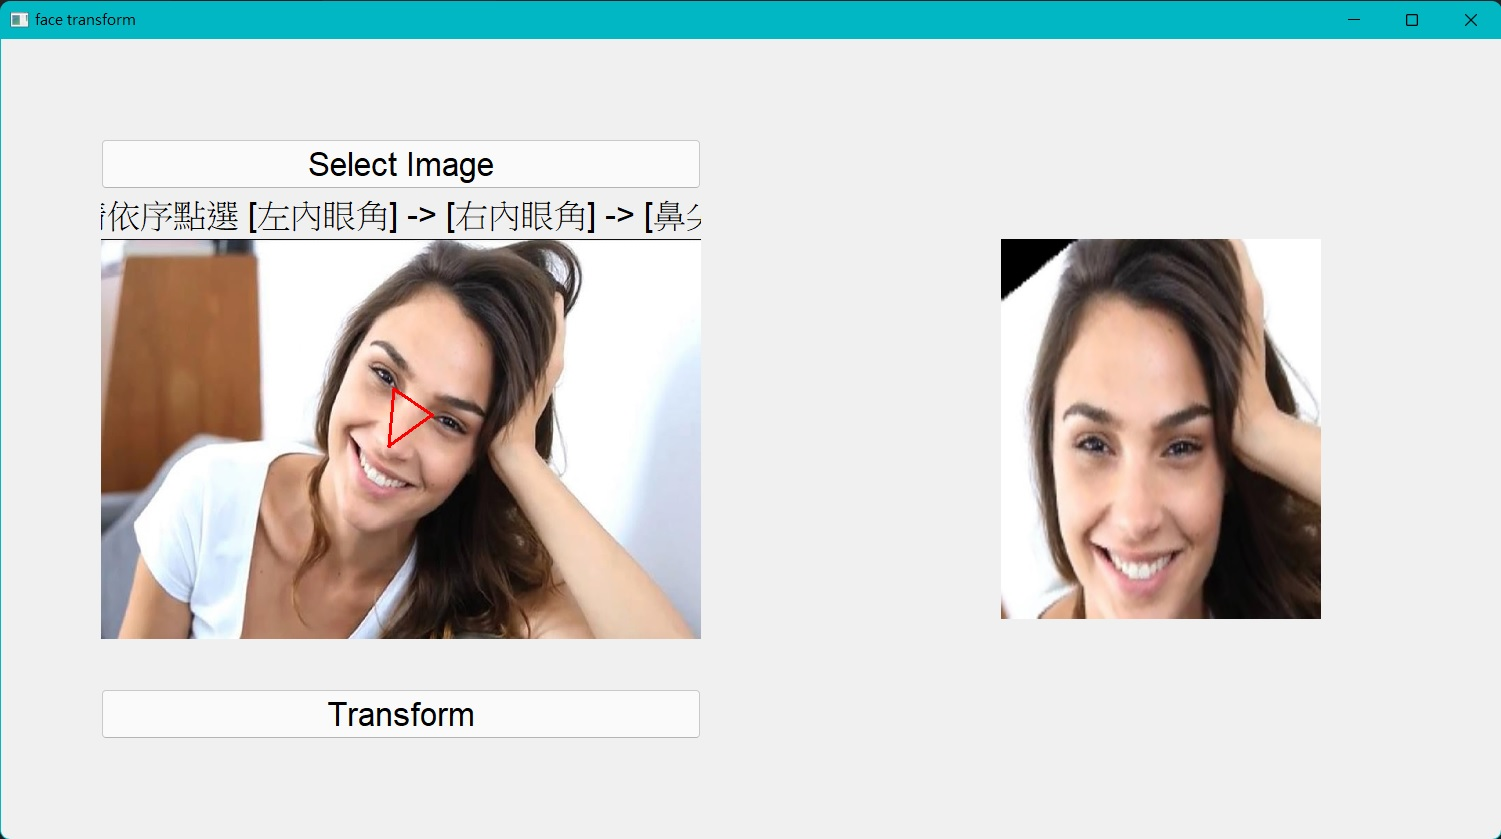
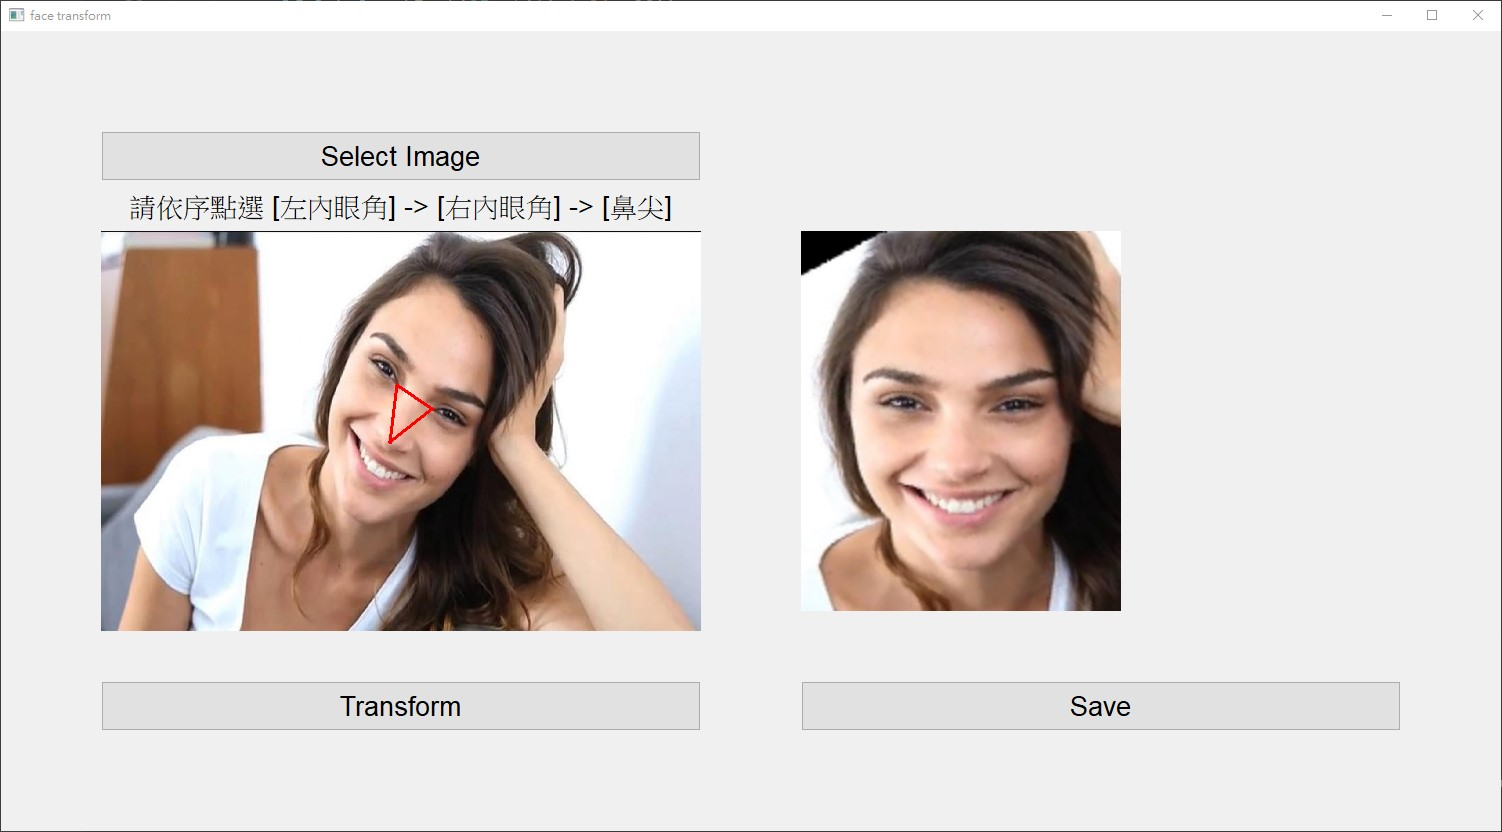
20211111

diff --git a/main.py b/main.py
@@ -70,7 +70,9 @@ class MainWindow(QWidget):
 
         # param
         self.srcTri = [] # [左內眼角], [右內眼角], [鼻尖]
-        self.dstTri = [[65, 90], [95, 90], [80, 120]]                
+        # self.dstTri = [[130, 180], [190, 180], [160, 240]]   
+        self.dstTri = [[65, 90], [95, 90], [80, 120]]       
+        self.processedImage = None          
         
         # Text
         self.label = QLabel(self)        
@@ -93,13 +95,20 @@ class MainWindow(QWidget):
         self.btn_startTransform.setEnabled(False)
         self.btn_startTransform.clicked.connect(self.run_AffineTransform)
 
+        self.btn_saveImage = QPushButton(self)
+        self.btn_saveImage.setText('Save')
+        self.btn_saveImage.setFont(QFont('Arial', 20))
+        self.btn_saveImage.setGeometry(800, 650, 600, 50)
+        self.btn_saveImage.setEnabled(False)
+        self.btn_saveImage.clicked.connect(self.save_image)
+
         # Display
         self.displayLabel = displayLabel(self)    
         self.displayLabel.customInit()       
         self.displayLabel.setGeometry(100, 200, 600, 400)
 
         self.disployLabel_processed = QLabel(self)
-        self.disployLabel_processed.setGeometry(1000, 200, 320, 380)
+        self.disployLabel_processed.setGeometry(800, 200, 320, 380)
     
     def open_image(self):
         self.fileName = QFileDialog.getOpenFileName(self, \
@@ -124,15 +133,24 @@ class MainWindow(QWidget):
 
         wrap_mat = cv2.getAffineTransform(src_tri, dst_tri)
 
-        dst = apply_AffineTransform(srcImg, wrap_mat, (160, 190))
+        dst = apply_AffineTransform(srcImg, wrap_mat, (190, 160))
 
         dst = cv2.resize(dst, (320, 380))
+        self.processedImage = dst
+
         dst = cv2.cvtColor(dst, cv2.COLOR_BGR2RGB)
 
         height, width, channel = dst.shape
         bytesPerLine = 3 * width
         qImg = QImage(dst.data, width, height, bytesPerLine, QImage.Format_RGB888)
         self.disployLabel_processed.setPixmap(QPixmap.fromImage(qImg))
+        
+        self.btn_saveImage.setEnabled(True)
+    
+    def save_image(self):
+        saveFileName = os.path.splitext(self.fileName.split('/')[-1])[0]
+        saveImg = cv2.resize(self.processedImage, (160, 190))
+        cv2.imwrite(f'./results/{saveFileName}.jpg', saveImg)
 
 def apply_AffineTransform(src, matrix, dst_size):
     dst = np.zeros([dst_size[0], dst_size[1], 3], dtype=np.uint8)
@@ -152,9 +170,10 @@ def apply_AffineTransform(src, matrix, dst_size):
         
         dst[new[1], new[0], :] = src[y ,x]
 
+
     return dst
 
-    pass
+    
 
 if __name__ == '__main__':
     app = QApplication([])
